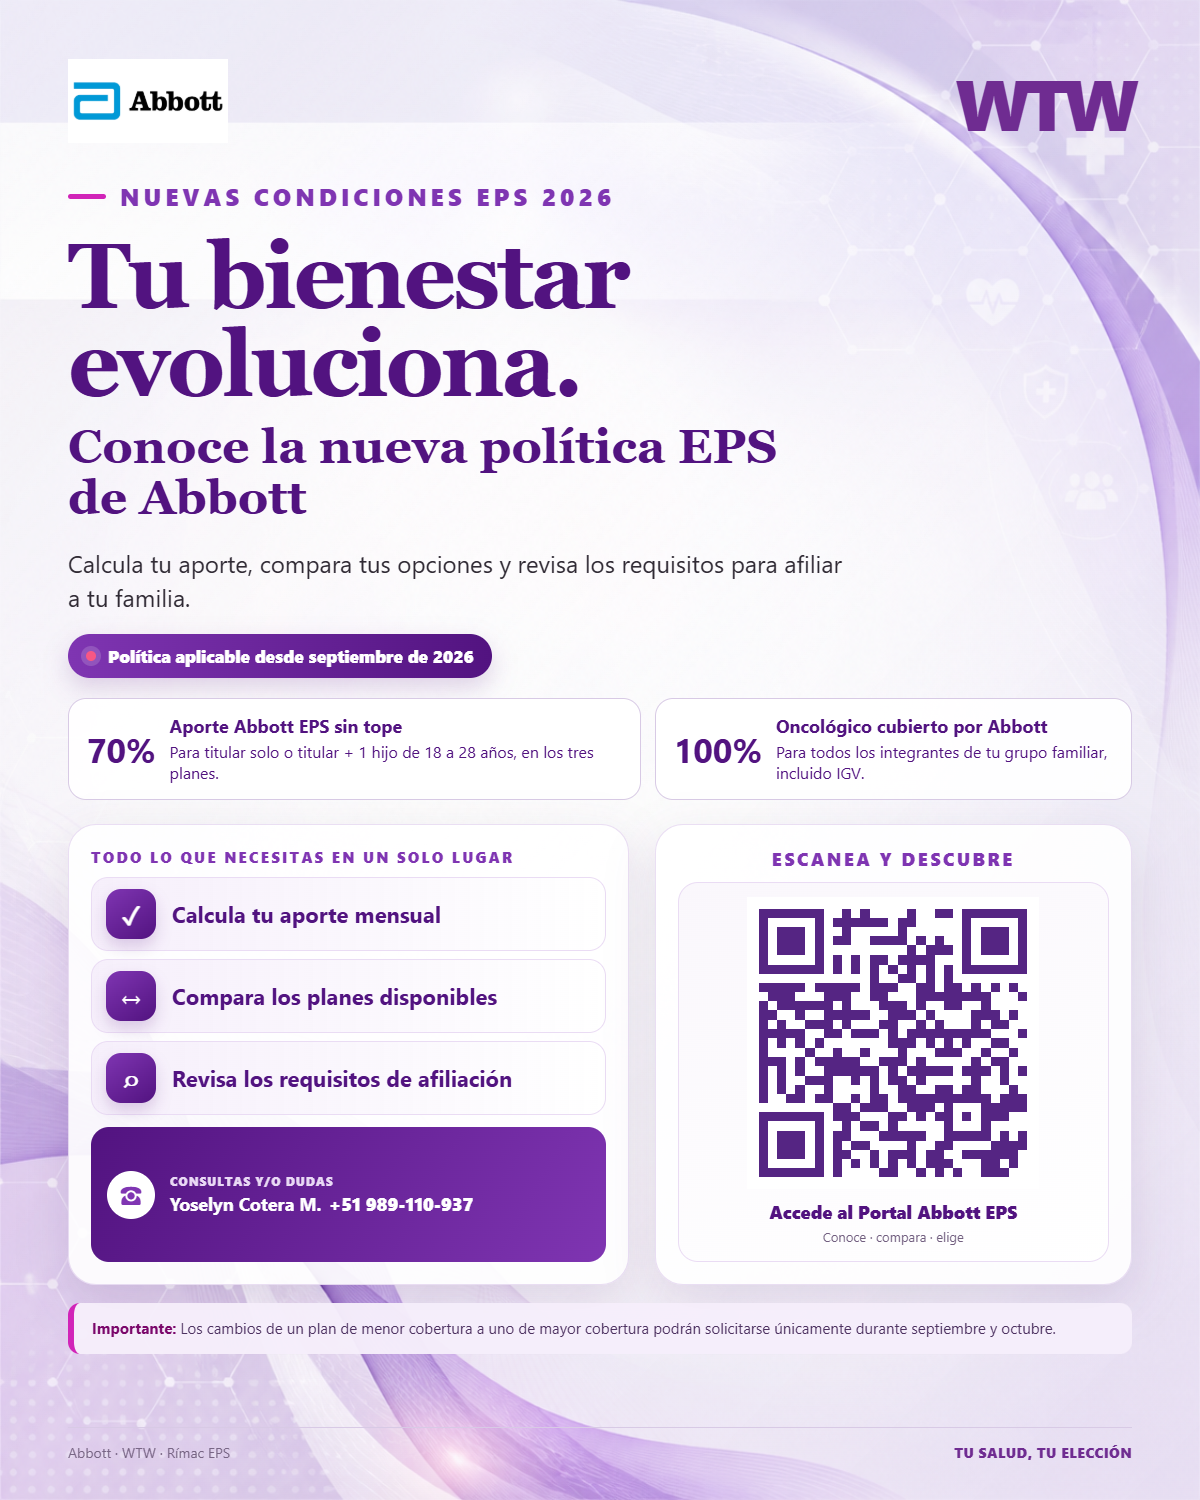
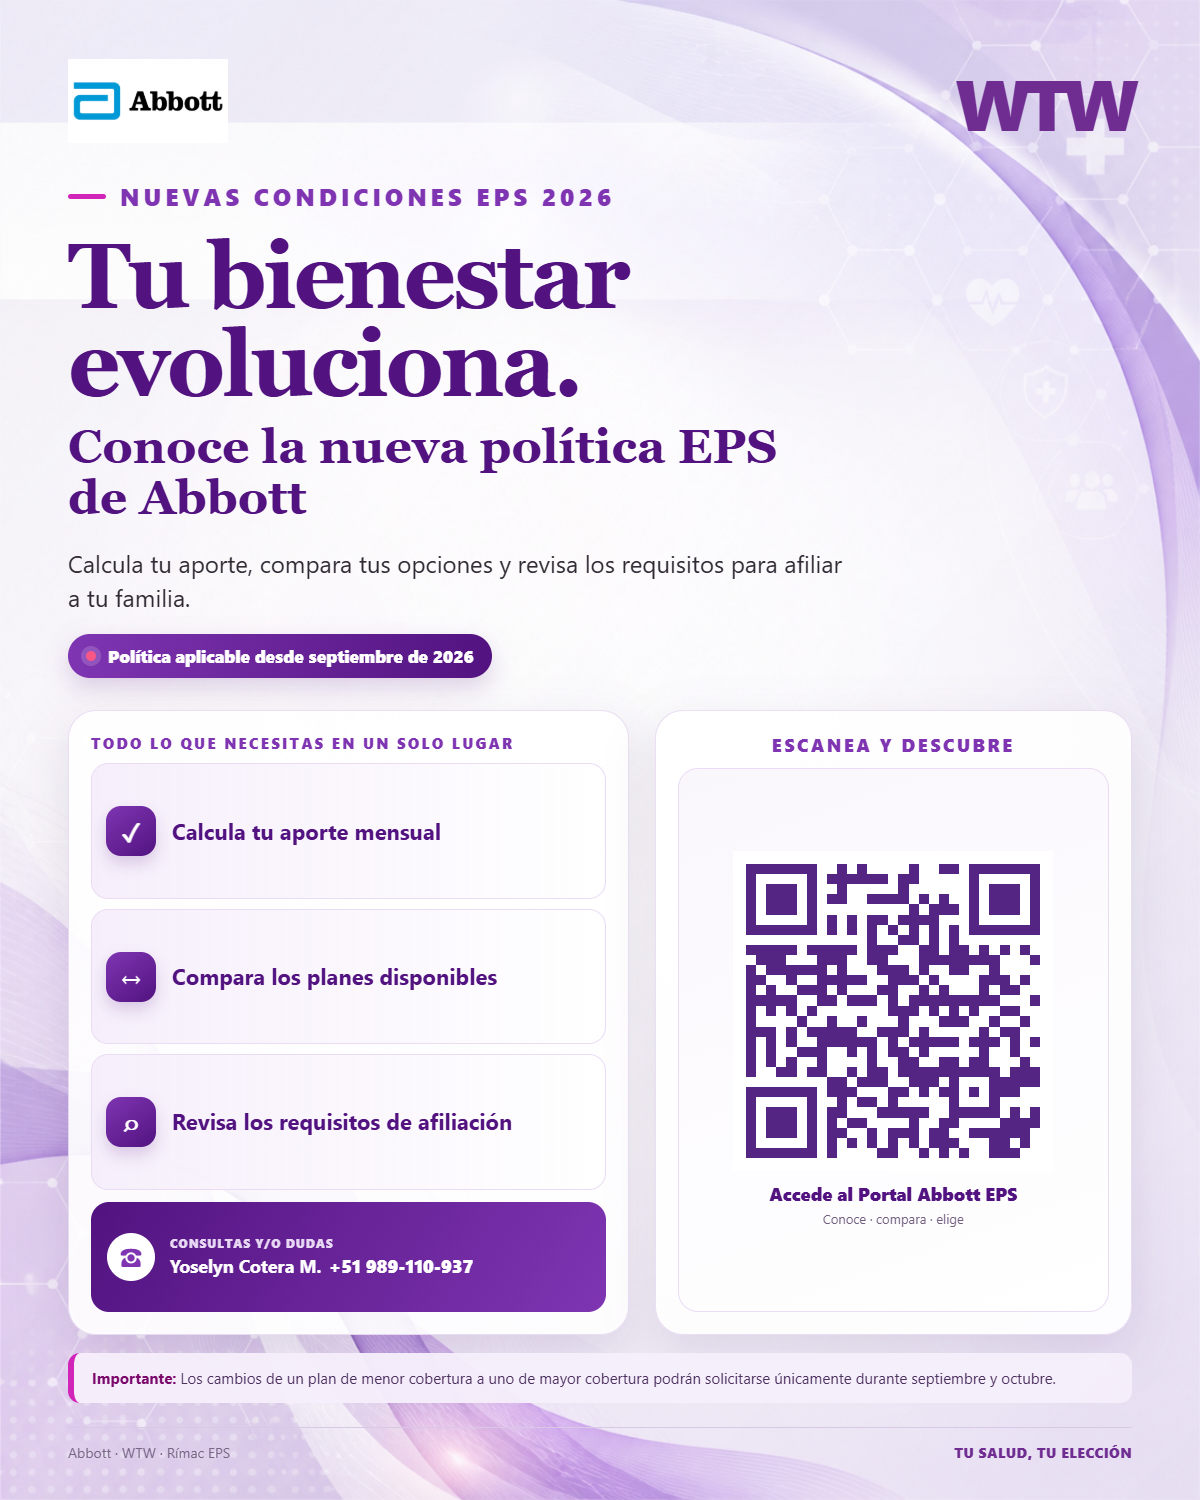
Retirar recuadros de porcentajes del flyer

Changed region(s): [[0.0308, 0.46, 0.9558, 0.9507], [0.555, 0.46, 0.925, 0.5213], [0.4625, 0.4907, 0.4933, 0.5213]]

diff --git a/flyer.html b/flyer.html
@@ -22,20 +22,15 @@ html,body{margin:0;background:#ece8f1;font-family:"Segoe UI",Arial,sans-serif}
 .lead{max-width:790px;margin:22px 0 0;font-size:24px;line-height:1.42;color:#302a34}
 .effective{display:inline-flex;align-items:center;gap:12px;margin-top:20px;padding:11px 18px;border-radius:999px;background:linear-gradient(90deg,#7f35b2,#521380);color:#fff;font-size:17px;font-weight:800;box-shadow:0 10px 24px rgba(82,19,128,.18)}
 .effective .dot{width:10px;height:10px;border-radius:50%;background:#f75784;box-shadow:0 0 0 5px rgba(255,255,255,.16)}
-.policy-highlights{display:grid;grid-template-columns:1.2fr 1fr;gap:14px;margin-top:20px}
-.policy-highlight{display:flex;align-items:center;gap:14px;padding:16px 18px;border:1px solid #d8cae5;border-radius:18px;background:rgba(255,255,255,.94);color:#521380}
-.policy-highlight b{font-size:34px;line-height:1;white-space:nowrap}
-.policy-highlight span{font-size:16px;line-height:1.3}
-.policy-highlight strong{display:block;margin-bottom:3px;font-size:18px}
-.lower{display:grid;grid-template-columns:1.08fr .92fr;gap:26px;margin-top:24px;align-items:stretch}
+.lower{display:grid;grid-template-columns:1.08fr .92fr;gap:26px;margin-top:32px;align-items:stretch;flex:1}
 .panel{border:1px solid rgba(127,53,178,.16);border-radius:28px;background:rgba(255,255,255,.9);box-shadow:0 18px 48px rgba(70,30,100,.13);overflow:hidden}
 .benefits-panel{display:flex;flex-direction:column;padding:22px}
 .panel-label{margin:0 0 10px;font-size:15px;font-weight:900;letter-spacing:2.2px;color:#7f35b2;text-transform:uppercase}
-.benefits{display:grid;grid-template-columns:1fr;gap:8px}
+.benefits{display:grid;grid-template-columns:1fr;gap:10px;flex:1}
 .benefit{display:flex;align-items:center;gap:16px;min-height:72px;padding:11px 14px;border-radius:17px;background:linear-gradient(90deg,#f6effb,rgba(255,255,255,.86));border:1px solid #eadcf4}
 .icon{display:grid;place-items:center;flex:0 0 50px;width:50px;height:50px;border-radius:15px;background:linear-gradient(145deg,#7f35b2,#521380);color:#fff;font-size:25px;font-weight:900;box-shadow:0 8px 16px rgba(82,19,128,.18)}
 .benefit strong{display:block;font-size:22px;line-height:1.15;color:#521380}
-.contact{display:flex;flex:1;align-items:center;gap:15px;min-height:92px;margin-top:12px;padding:17px 16px;border-radius:18px;background:linear-gradient(120deg,#521380,#7f35b2);color:#fff}
+.contact{display:flex;align-items:center;gap:15px;min-height:110px;margin-top:12px;padding:17px 16px;border-radius:18px;background:linear-gradient(120deg,#521380,#7f35b2);color:#fff}
 .contact-icon{display:grid;place-items:center;flex:0 0 48px;width:48px;height:48px;border-radius:50%;background:#fff;color:#7f35b2;font-size:23px}
 .contact small{display:block;margin-bottom:3px;color:#e9d9f5;font-size:12px;font-weight:800;letter-spacing:1px;text-transform:uppercase}
 .contact strong{display:inline;color:#fff;font-size:18px}
@@ -43,12 +38,12 @@ html,body{margin:0;background:#ece8f1;font-family:"Segoe UI",Arial,sans-serif}
 .qr-area{padding:22px;text-align:center;display:flex;flex-direction:column}
 .qr-title{margin:0 0 11px;font-size:18px;font-weight:900;letter-spacing:2.5px;color:#7f35b2}
 .qr-card{display:flex;flex:1;flex-direction:column;justify-content:center;align-items:center;padding:14px 18px 16px;border-radius:20px;background:linear-gradient(160deg,#faf7fc,#fff);border:1px solid #eadcf4;text-decoration:none}
-.qr-card img{display:block;width:292px;height:292px;image-rendering:pixelated}
+.qr-card img{display:block;width:320px;height:320px;image-rendering:pixelated}
 .qr-card span{display:block;margin-top:11px;color:#521380;font-size:18px;font-weight:900}
 .qr-card em{display:block;margin-top:4px;color:#725f80;font-size:13px;font-style:normal}
 .disclaimer{margin-top:18px;padding:15px 18px;border-left:6px solid #d124b8;border-radius:12px;background:rgba(246,238,251,.96);color:#4d3261;font-size:15px;line-height:1.35}
 .disclaimer strong{color:#7b086b}
-.footer{margin-top:auto;display:flex;align-items:center;justify-content:space-between;border-top:1px solid #d8cae5;padding-top:15px;font-size:14px;color:#786685}
+.footer{margin-top:24px;display:flex;align-items:center;justify-content:space-between;border-top:1px solid #d8cae5;padding-top:15px;font-size:14px;color:#786685}
 .cta{font-weight:900;color:#6f2c91;letter-spacing:.4px}
 @media(max-width:900px){body{overflow-x:auto}}
 @media print{body{background:#fff}.flyer{margin:0}}
@@ -70,10 +65,6 @@ html,body{margin:0;background:#ece8f1;font-family:"Segoe UI",Arial,sans-serif}
       <h2 class="subheadline">Conoce la nueva política EPS de Abbott</h2>
       <p class="lead">Calcula tu aporte, compara tus opciones y revisa los requisitos para afiliar a tu familia.</p>
       <div class="effective"><span class="dot"></span>Política aplicable desde septiembre de 2026</div>
-      <div class="policy-highlights">
-        <div class="policy-highlight"><b>70%</b><span><strong>Aporte Abbott EPS sin tope</strong>Para titular solo o titular + 1 hijo de 18 a 28 años, en los tres planes.</span></div>
-        <div class="policy-highlight"><b>100%</b><span><strong>Oncológico cubierto por Abbott</strong>Para todos los integrantes de tu grupo familiar, incluido IGV.</span></div>
-      </div>
     </section>
 
     <section class="lower">
